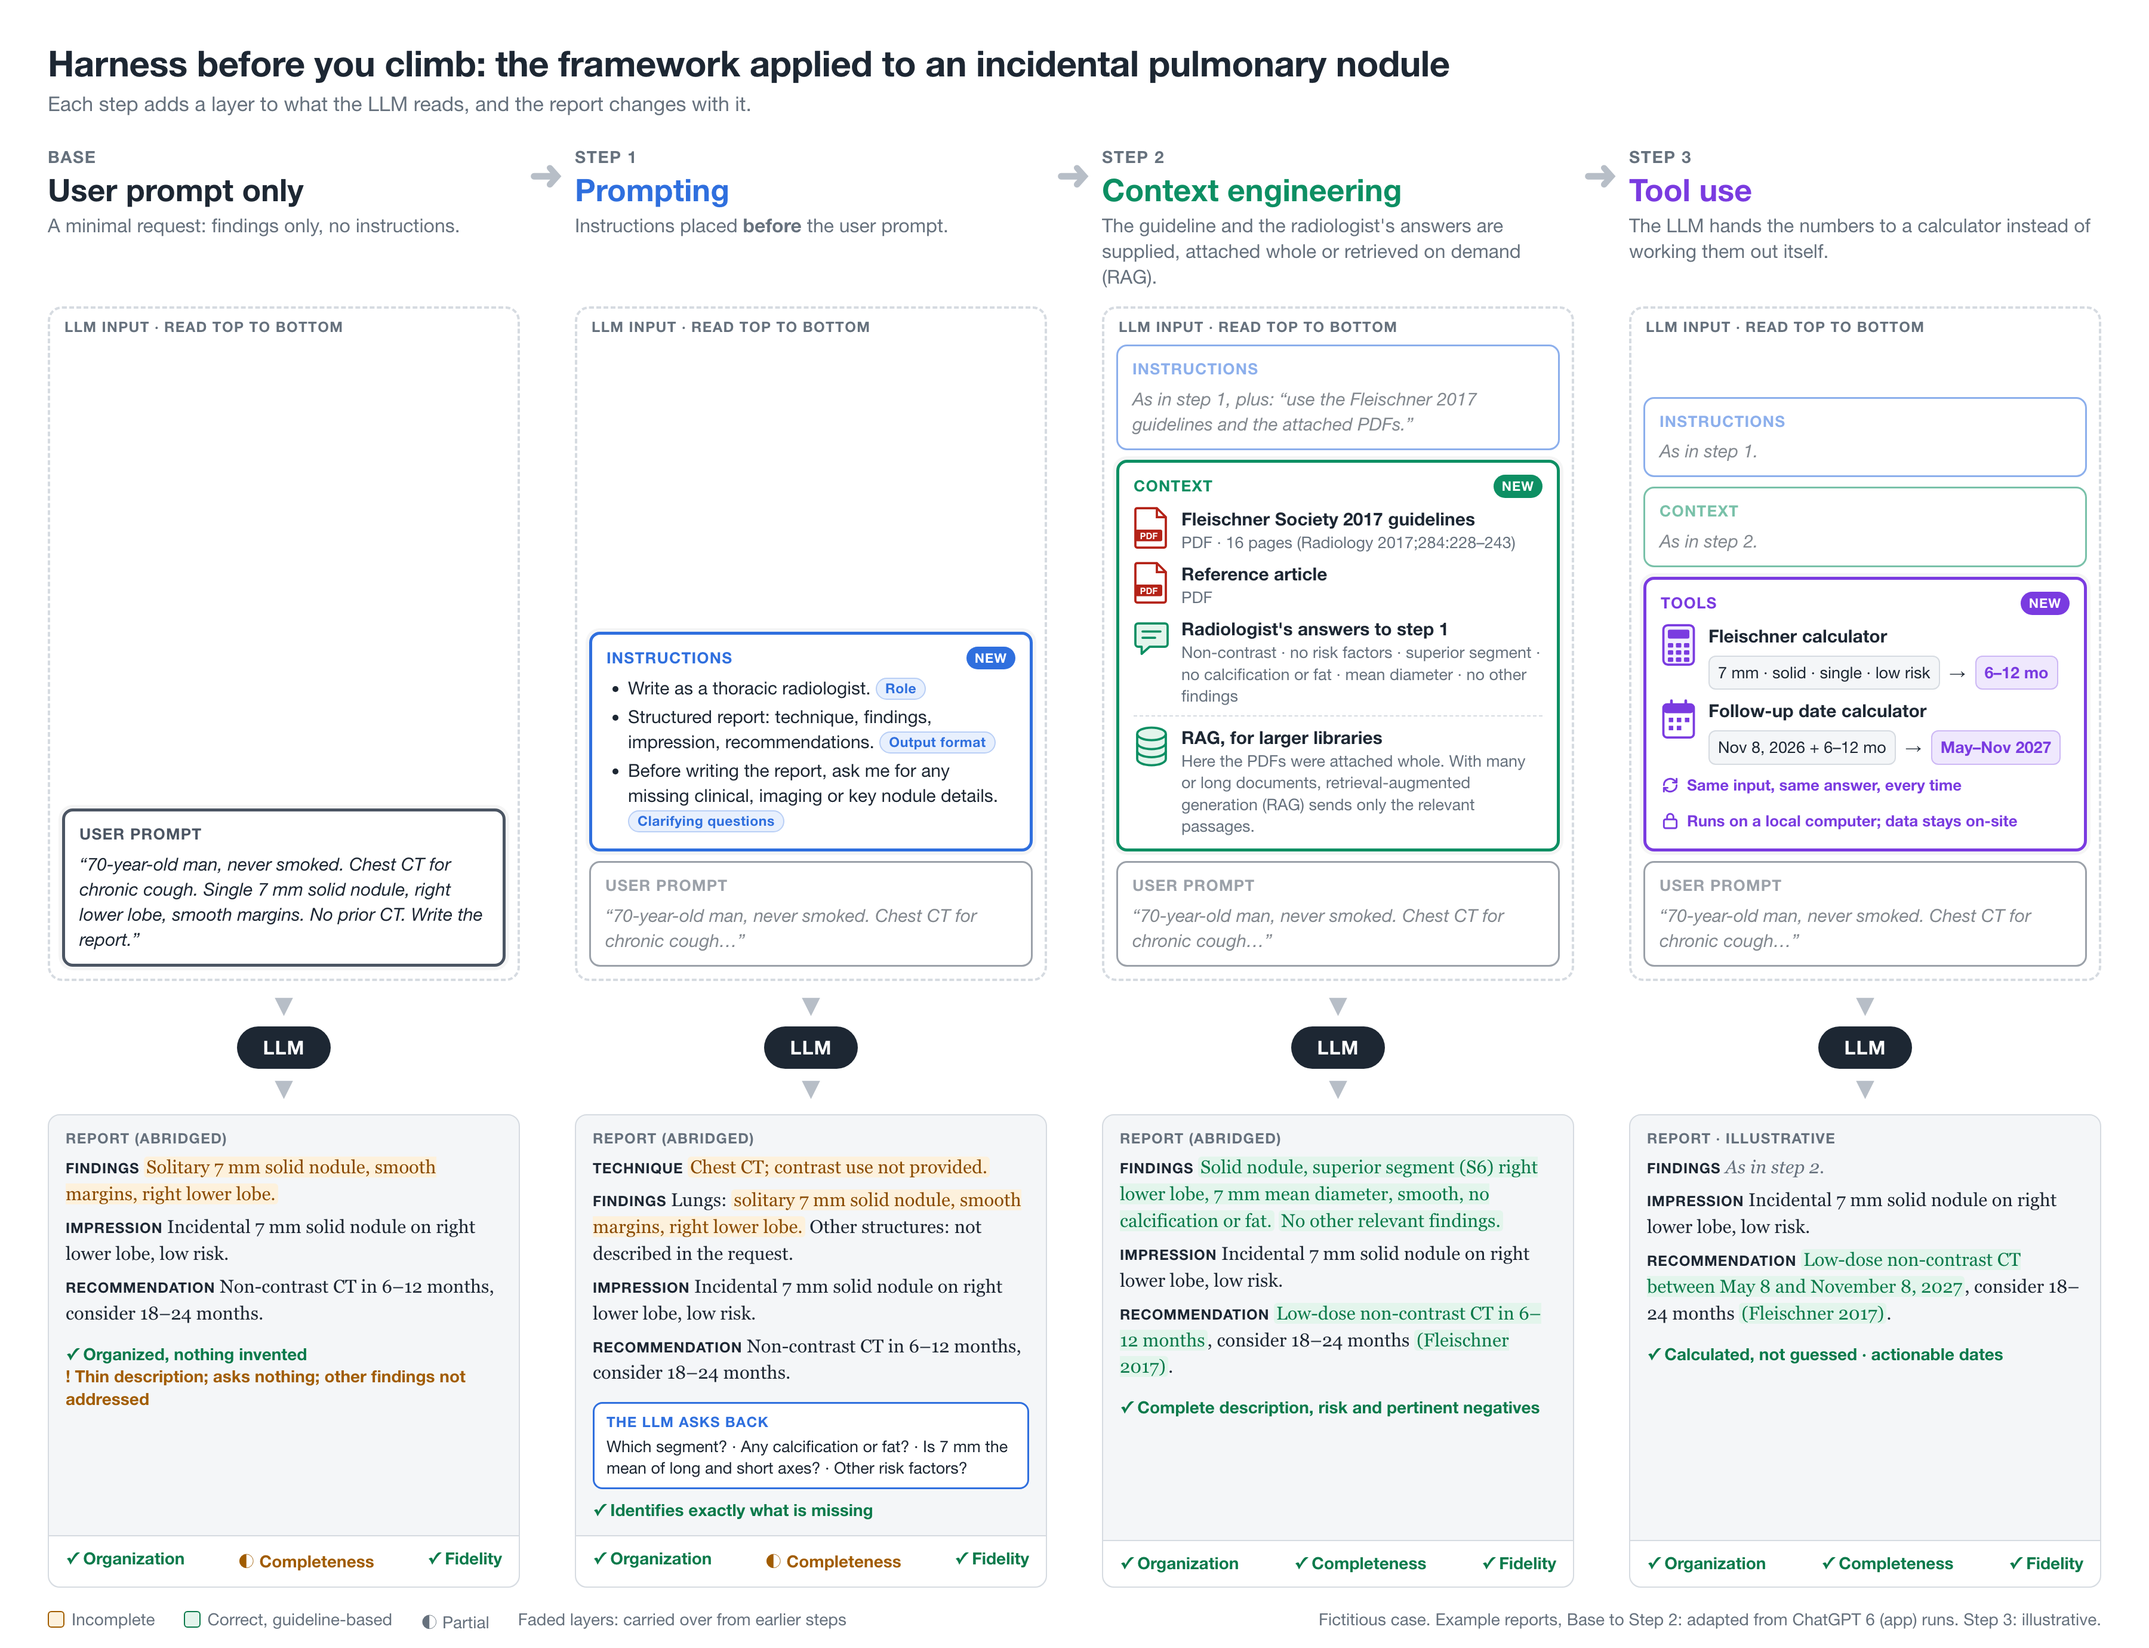
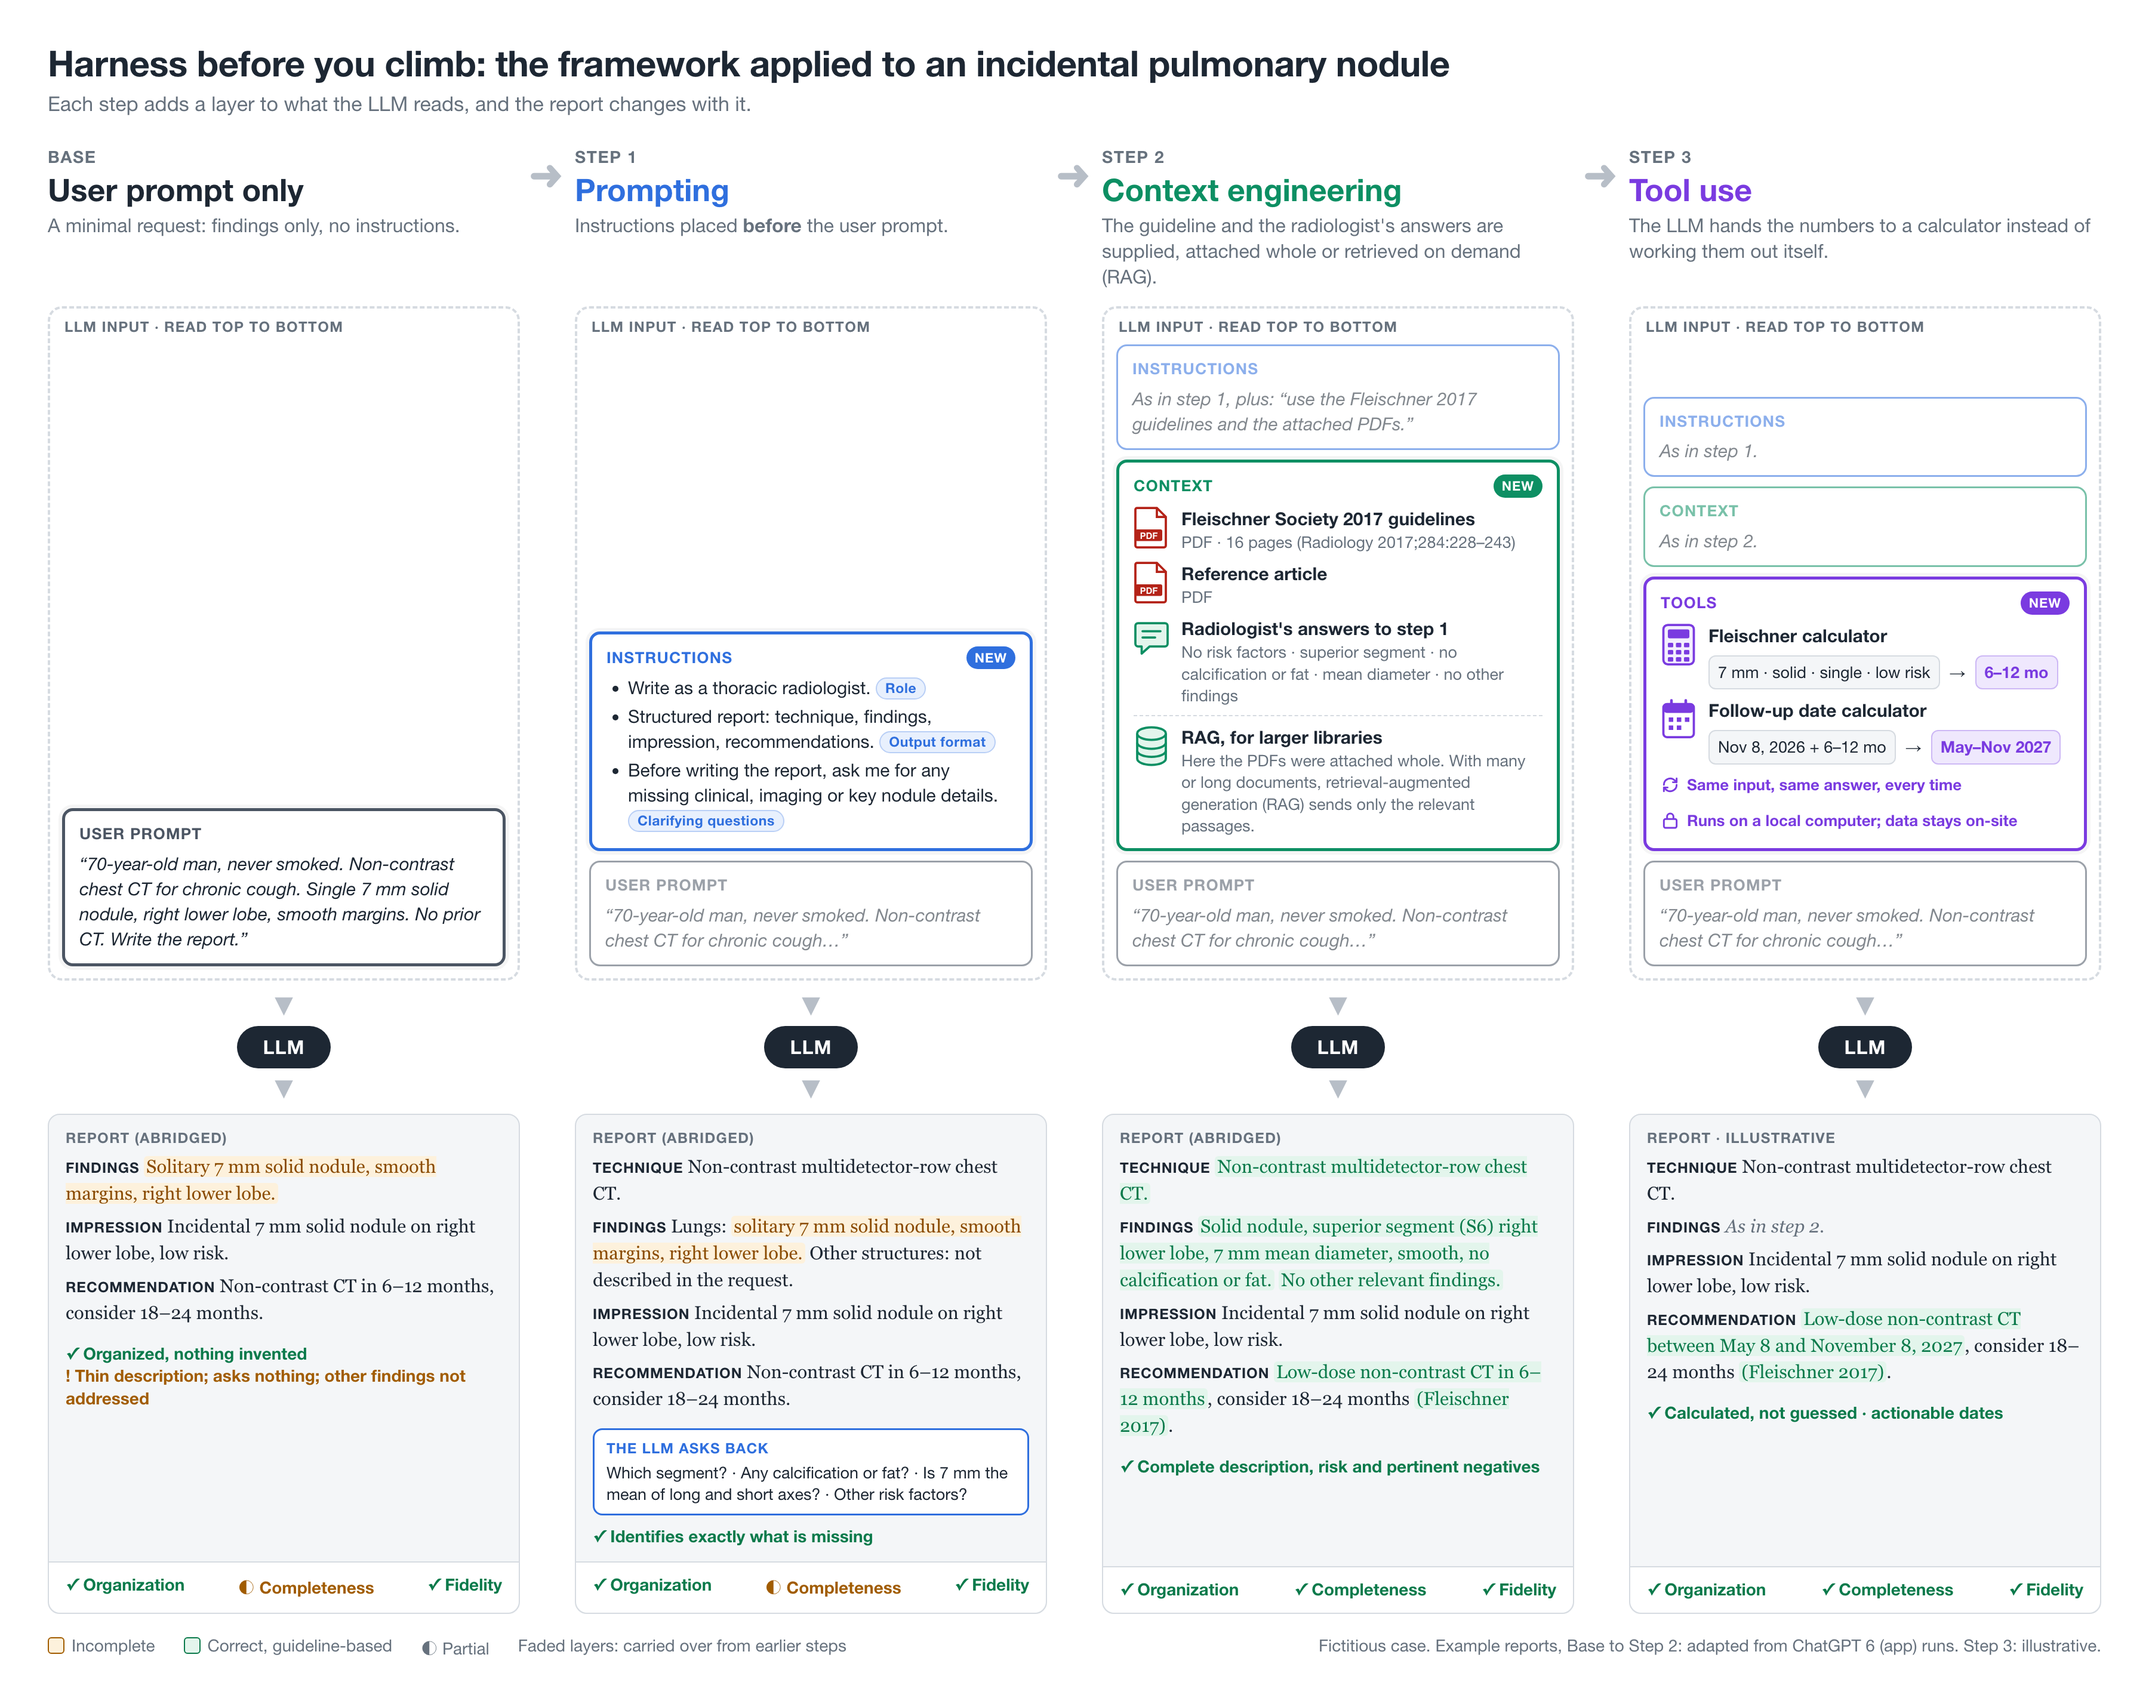
Figure: non-contrast CT in the prompt, technique in Steps 1-3
- Base user prompt states non-contrast chest CT (all columns)
- Steps 1-3 report the technique: non-contrast multidetector-row chest CT
- Drop the contrast question and the contrast answer, now supplied in the prompt

diff --git a/figure/pipeline.html b/figure/pipeline.html
@@ -190,7 +190,7 @@
       <div class="stack">
         <div class="layer l-user new">
           <div class="t">User prompt</div>
-          <span class="quote">“70-year-old man, never smoked. Chest CT for chronic cough. Single 7 mm solid nodule, right lower lobe, smooth margins. No prior CT. Write the report.”</span>
+          <span class="quote">“70-year-old man, never smoked. Non-contrast chest CT for chronic cough. Single 7 mm solid nodule, right lower lobe, smooth margins. No prior CT. Write the report.”</span>
         </div>
       </div>
       <div class="llm"><div class="arrow">▼</div><div class="node">LLM</div><div class="arrow">▼</div></div>
@@ -224,14 +224,14 @@
         </div>
         <div class="layer l-user">
           <div class="t">User prompt</div>
-          <span class="quote">“70-year-old man, never smoked. Chest CT for chronic cough…”</span>
+          <span class="quote">“70-year-old man, never smoked. Non-contrast chest CT for chronic cough…”</span>
         </div>
       </div>
       <div class="llm"><div class="arrow">▼</div><div class="node">LLM</div><div class="arrow">▼</div></div>
       <div class="out-box">
         <div class="lbl">Report (abridged)</div>
         <div class="report">
-          <p><span class="sec">TECHNIQUE</span> <span class="gap">Chest CT; contrast use not provided.</span></p>
+          <p><span class="sec">TECHNIQUE</span> Non-contrast multidetector-row chest CT.</p>
           <p><span class="sec">FINDINGS</span> Lungs: <span class="gap">solitary 7 mm solid nodule, smooth margins, right lower lobe.</span> Other structures: not described in the request.</p>
           <p><span class="sec">IMPRESSION</span> Incidental 7 mm solid nodule on right lower lobe, low risk.</p>
           <p><span class="sec">RECOMMENDATION</span> Non-contrast CT in 6–12 months, consider 18–24 months.</p>
@@ -269,7 +269,7 @@
           </div>
           <div class="item">
             <svg width="30" height="36"><use href="#i-chat"/></svg>
-            <div><b>Radiologist's answers to step 1</b><small>Non-contrast · no risk factors · superior segment · no calcification or fat · mean diameter · no other findings</small></div>
+            <div><b>Radiologist's answers to step 1</b><small>No risk factors · superior segment · no calcification or fat · mean diameter · no other findings</small></div>
           </div>
           <div class="item rag">
             <svg width="30" height="36"><use href="#i-db"/></svg>
@@ -278,13 +278,14 @@
         </div>
         <div class="layer l-user">
           <div class="t">User prompt</div>
-          <span class="quote">“70-year-old man, never smoked. Chest CT for chronic cough…”</span>
+          <span class="quote">“70-year-old man, never smoked. Non-contrast chest CT for chronic cough…”</span>
         </div>
       </div>
       <div class="llm"><div class="arrow">▼</div><div class="node">LLM</div><div class="arrow">▼</div></div>
       <div class="out-box">
         <div class="lbl">Report (abridged)</div>
         <div class="report">
+          <p><span class="sec">TECHNIQUE</span> <span class="ok">Non-contrast multidetector-row chest CT.</span></p>
           <p><span class="sec">FINDINGS</span> <span class="ok">Solid nodule, superior segment (S6) right lower lobe, 7 mm mean diameter, smooth, no calcification or fat.</span> <span class="ok">No other relevant findings.</span></p>
           <p><span class="sec">IMPRESSION</span> Incidental 7 mm solid nodule on right lower lobe, low risk.</p>
           <p><span class="sec">RECOMMENDATION</span> <span class="ok">Low-dose non-contrast CT in 6–12 months</span>, consider 18–24 months <span class="ok">(Fleischner 2017)</span>.</p>
@@ -329,13 +330,14 @@
         </div>
         <div class="layer l-user">
           <div class="t">User prompt</div>
-          <span class="quote">“70-year-old man, never smoked. Chest CT for chronic cough…”</span>
+          <span class="quote">“70-year-old man, never smoked. Non-contrast chest CT for chronic cough…”</span>
         </div>
       </div>
       <div class="llm"><div class="arrow">▼</div><div class="node">LLM</div><div class="arrow">▼</div></div>
       <div class="out-box">
         <div class="lbl">Report · illustrative</div>
         <div class="report">
+          <p><span class="sec">TECHNIQUE</span> Non-contrast multidetector-row chest CT.</p>
           <p><span class="sec">FINDINGS</span> <span class="same">As in step 2.</span></p>
           <p><span class="sec">IMPRESSION</span> Incidental 7 mm solid nodule on right lower lobe, low risk.</p>
           <p><span class="sec">RECOMMENDATION</span> <span class="ok">Low-dose non-contrast CT between May 8 and November 8, 2027</span>, consider 18–24 months <span class="ok">(Fleischner 2017)</span>.</p>
